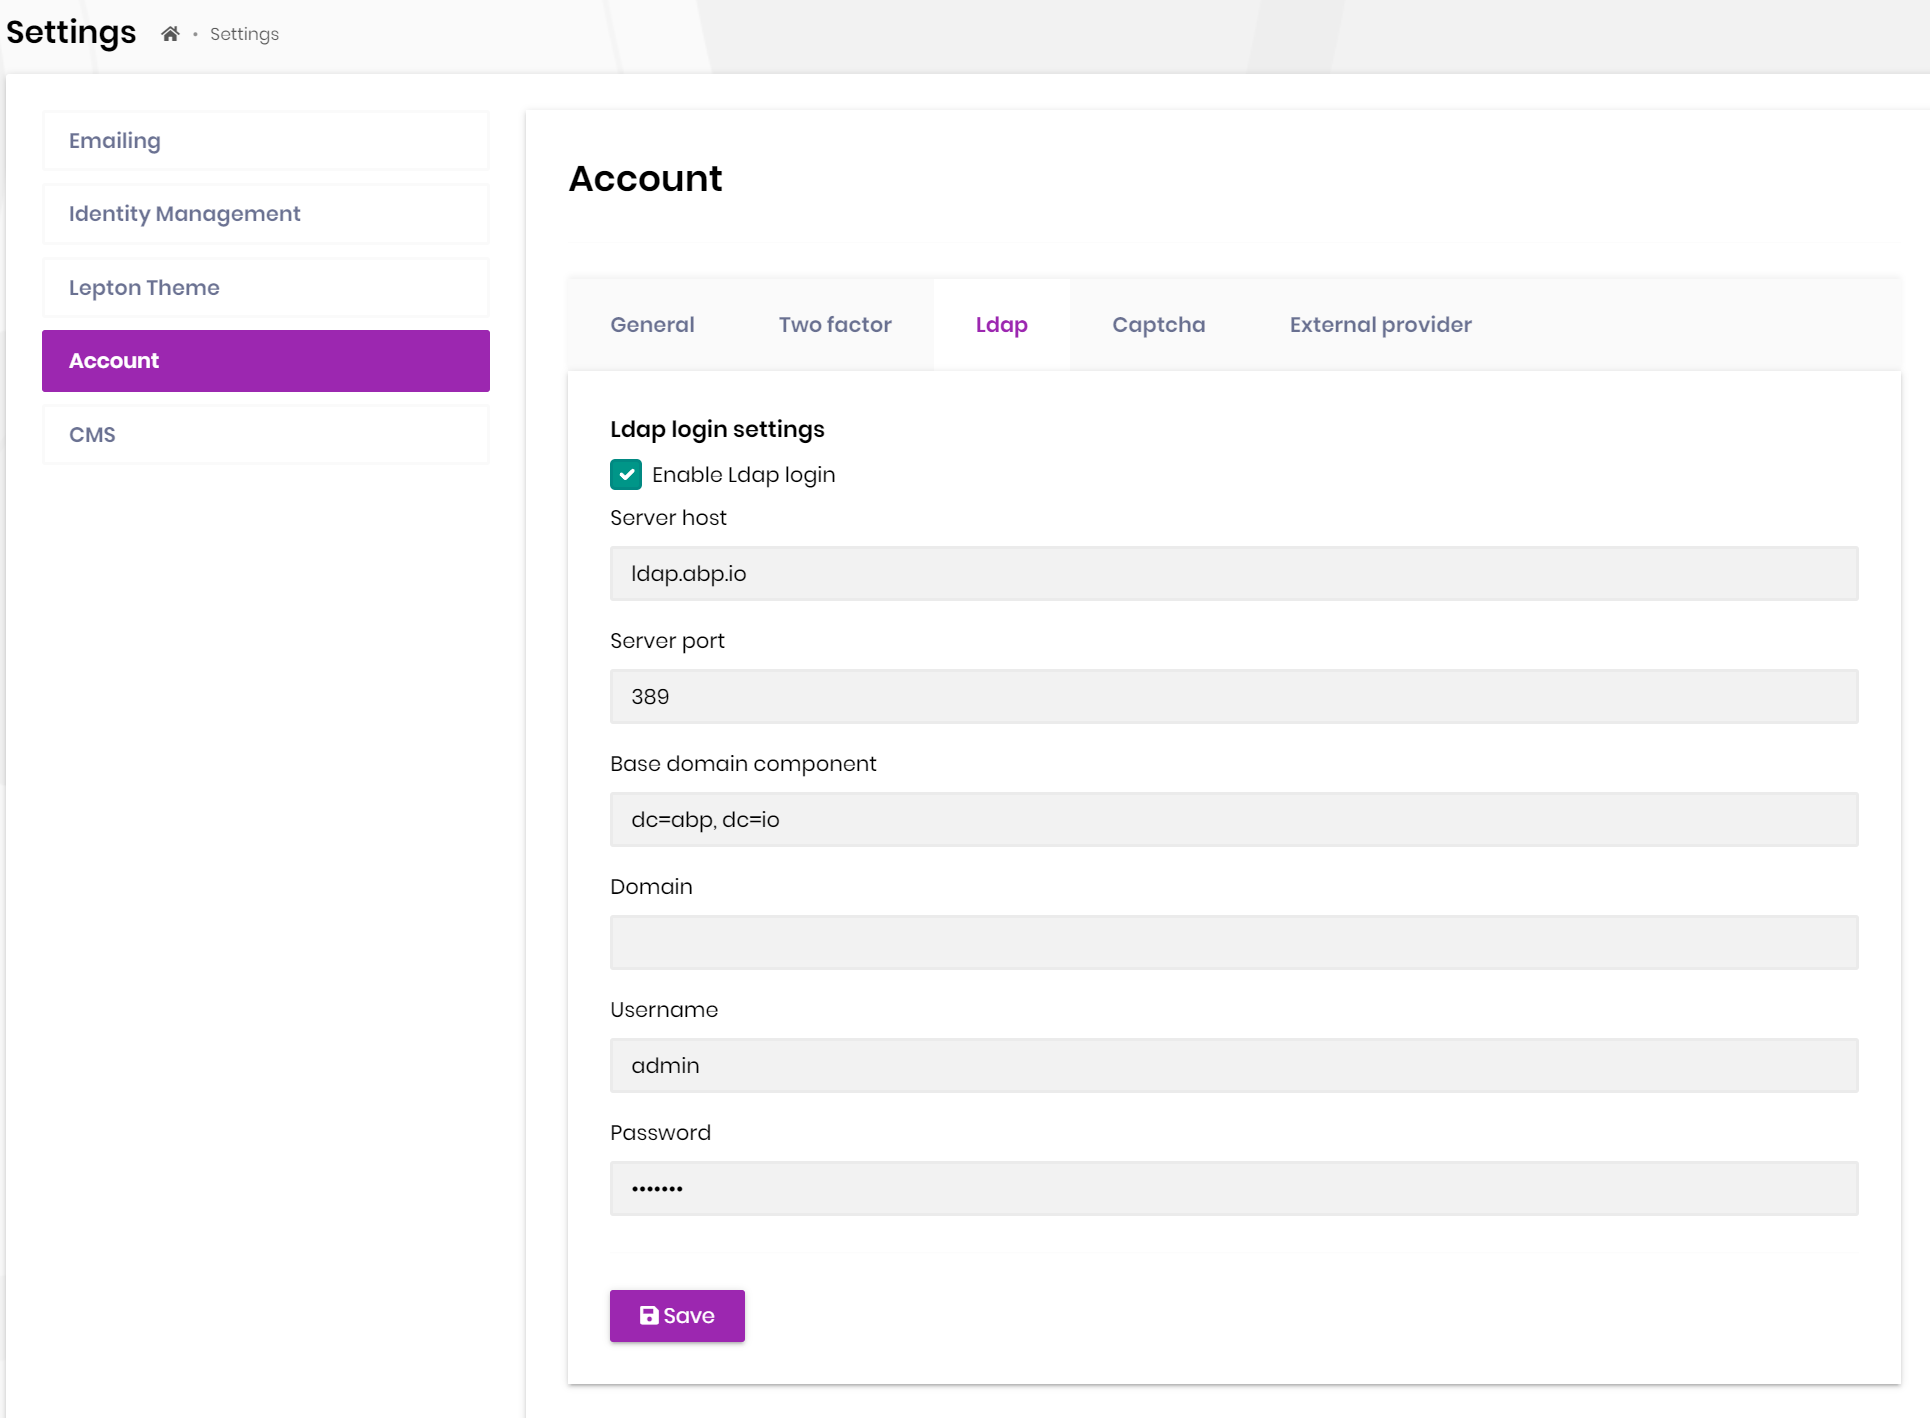
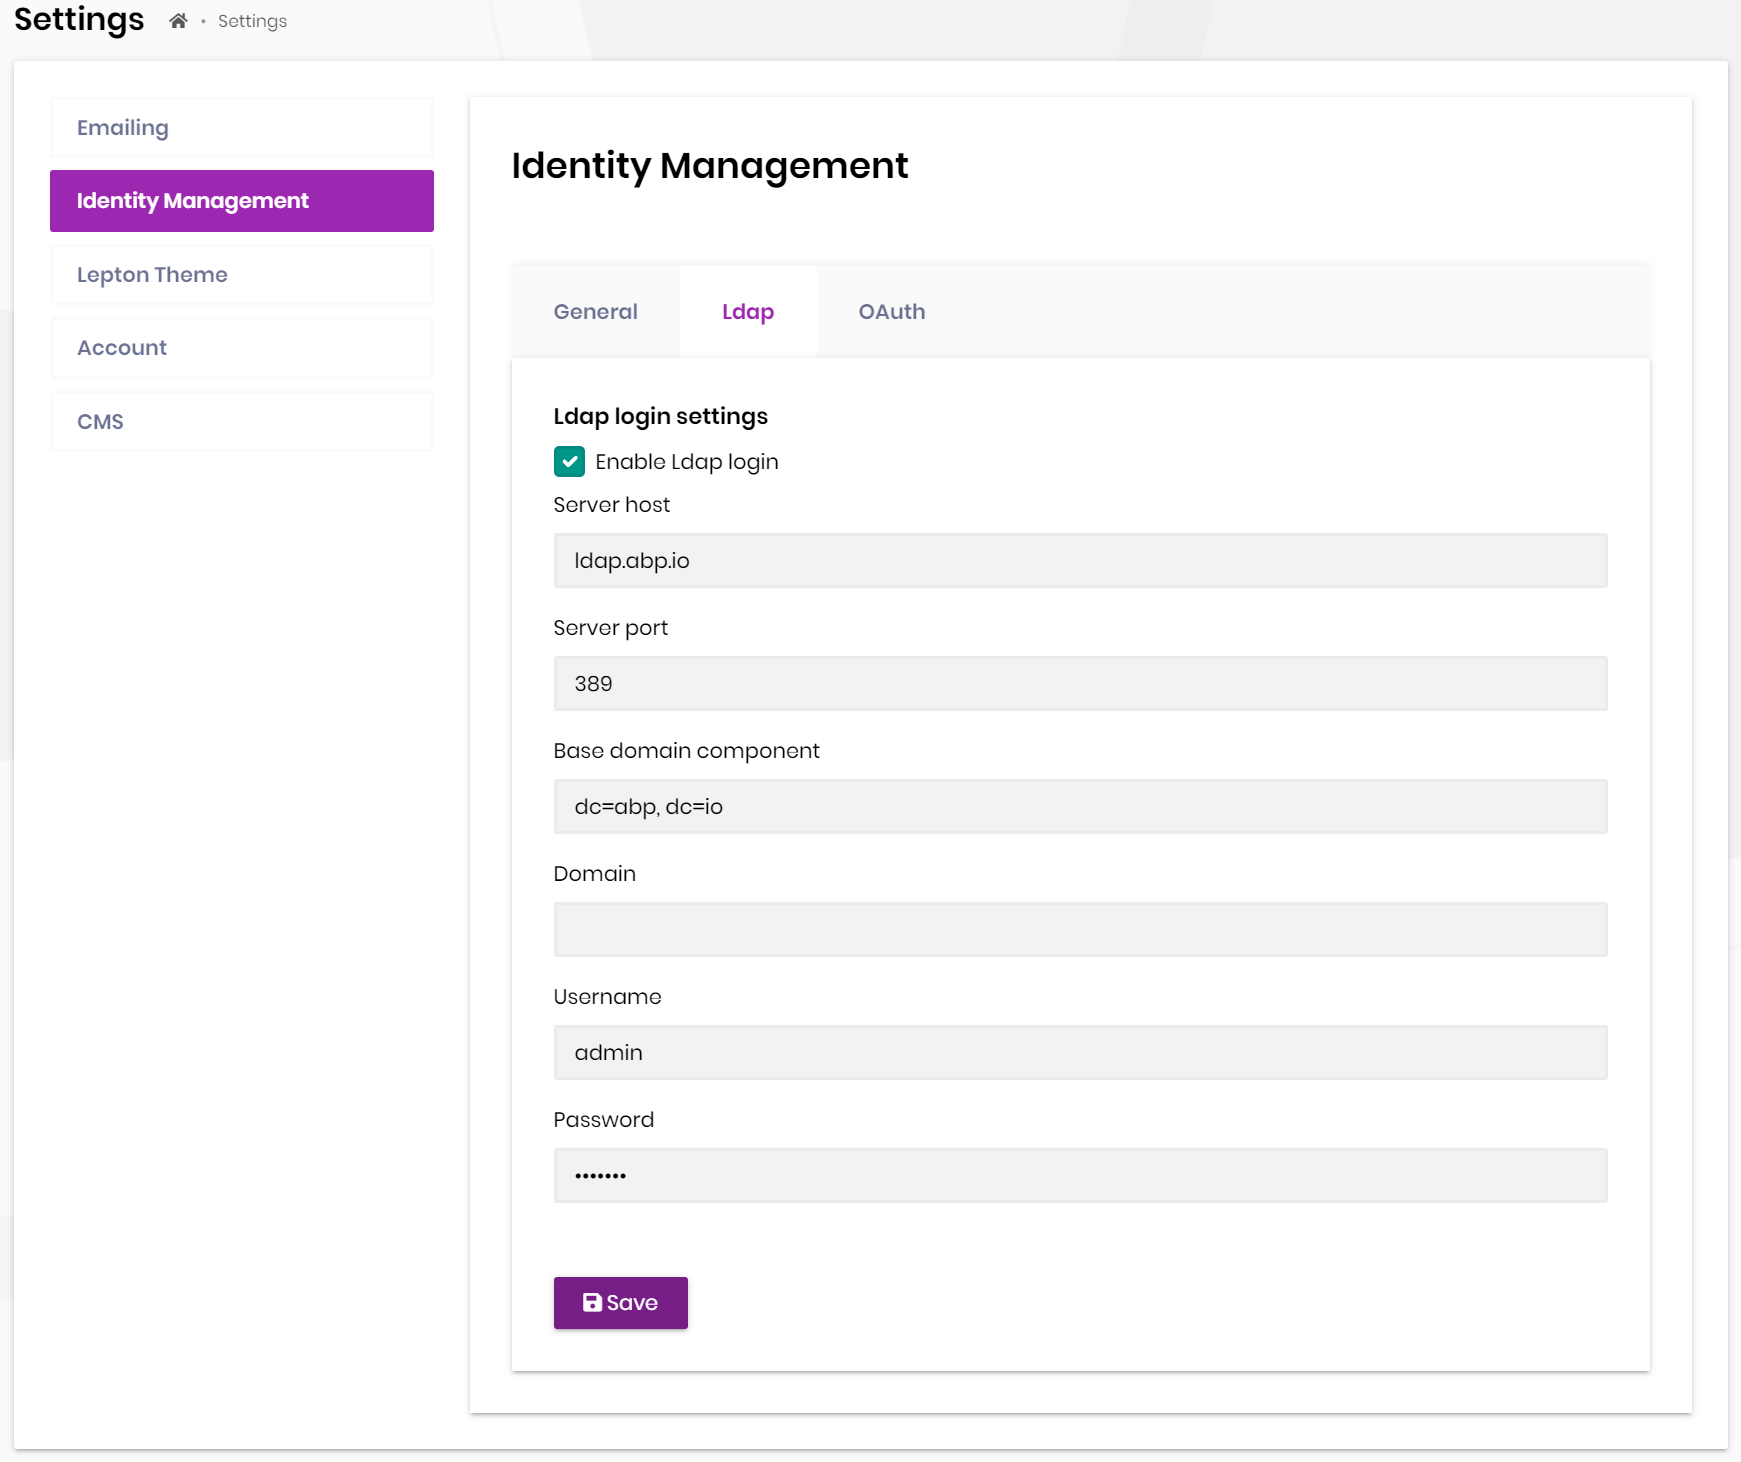
Document OAuth Owner Password as External Login Provider.
Close https://github.com/volosoft/volo/issues/10066

diff --git a/en/modules/identity/oauth-login.md b/en/modules/identity/oauth-login.md
@@ -1,0 +1,21 @@
+# OAuth Resource Owner Password (ROP) External login Provider
+
+## Introduction
+
+The Identity PRO module has built-in `OAuthExternalLoginProvider` service. It implements OAuth Resource Owner Password authentication and gets user info for [external login](https://github.com/abpframework/abp/issues/4977).
+
+## How to enable OAuth external login?
+
+Youu need to enable the OAuth login feature and configure related settings.
+
+![enable-oauth-feature](../../images/enable-oauth-feature.png)
+
+![configure-oauth-setting](../../images/configure-oauth-setting.png)
+
+Then you can enter the user name and password on the login page for oauth external login.
+
+![oauth-login](../../images/ldap-login.png)
+
+## Resources
+
+https://oauth.net/2/grant-types/password/

diff --git a/en/modules/identity/ldap.md b/en/modules/identity/ldap.md
@@ -2,7 +2,7 @@
 
 ## Introduction
 
-The Account PRO module has built-in `LdapExternalLoginProvider` and `OpenLdapManager` services. It implements LDAP authentication and gets user info for [external login](https://github.com/abpframework/abp/issues/4977).
+The Identity PRO module has built-in `LdapExternalLoginProvider` and `OpenLdapManager` services. It implements LDAP authentication and gets user info for [external login](https://github.com/abpframework/abp/issues/4977).
 
 Cross platform [LdapForNet](https://www.nuget.org/packages/LdapForNet/) library is used for Windows LDAP authentication. See [LdapForNet GitHub repository](https://github.com/flamencist/ldap4net) for more information.
 

diff --git a/en/modules/identity/import-external-users.md b/en/modules/identity/import-external-users.md
@@ -1,0 +1,20 @@
+# Import External Users
+
+## Introduction
+
+The Identity PRO module has built-in `LdapExternalLoginProvider` and `OAuthExternalLoginProvider` services. They not only support external login but also import users.
+
+
+## How to import users from external login provider?
+
+1. Click the `Import` button on  `Users` page of Identity Pro module.
+
+![import-user-button](../../images/import-user-button.png)
+
+2. Select the `external login provider`
+
+![select-external-provider](../../images/select-external-provider.png)
+
+3. Enter the correct `username` and `password` to complete the import.
+
+![complete-import](../../images/complete-import.png)
